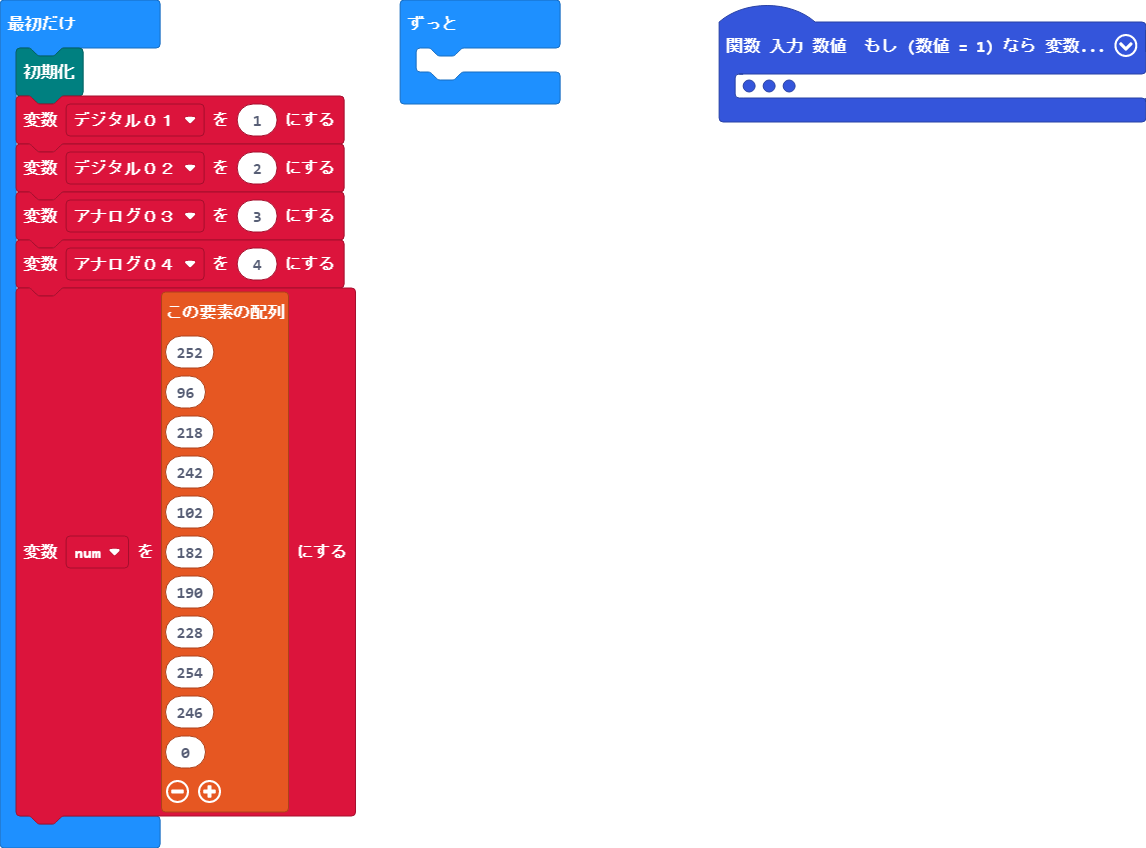
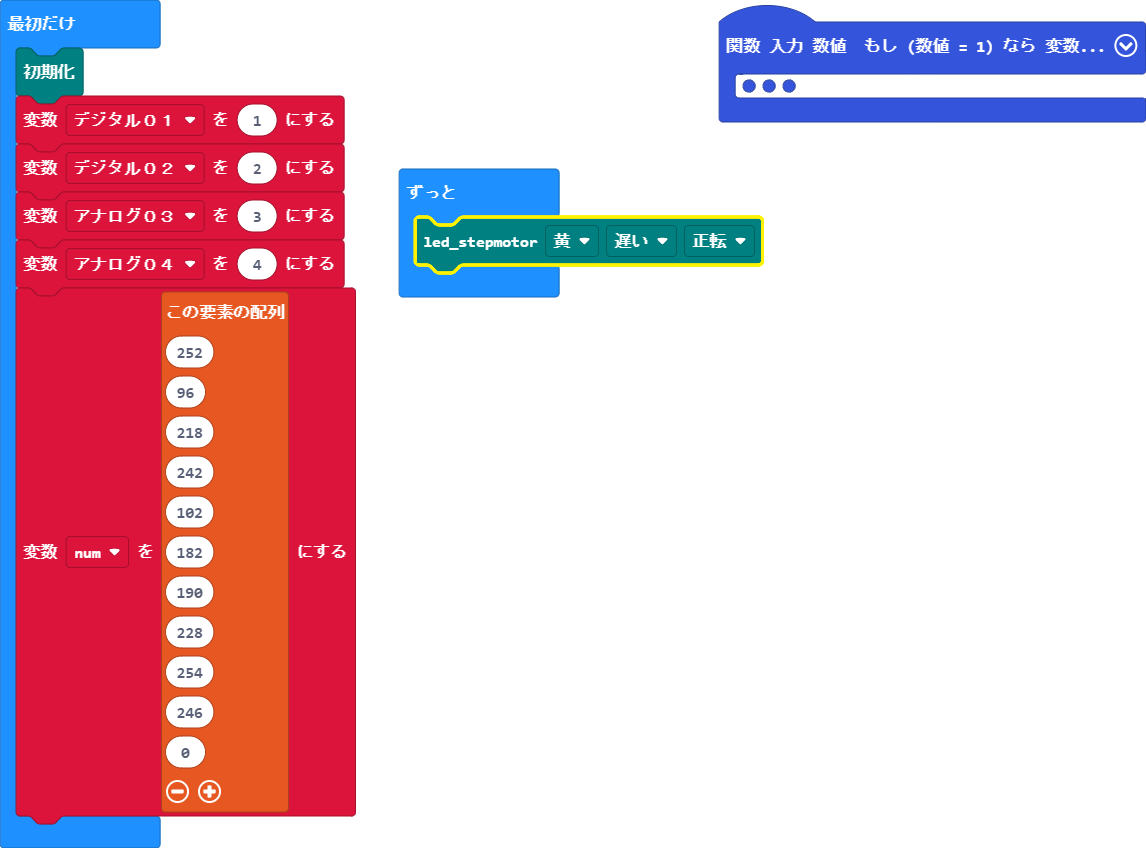
ステッピングモーターとフルカラーLEDを一つにした関数に着手

diff --git a/custom.ts b/custom.ts
@@ -209,7 +209,36 @@ namespace custom {
         pre_FullLED_Value = FullLED_Value
     }
     //% block
-    export function led_stepmotor(s: step_speed, d: step_dir): void {
+    export function led_stepmotor(c: color_type, s: step_speed, d: step_dir): void {
+        //フルカラーＬＥＤ
+        let FullLED_Value
+        switch (c) {
+            case color_type.black:
+                FullLED_Value = 0
+                break;
+            case color_type.red:
+                FullLED_Value = 8
+                break;
+            case color_type.blue:
+                FullLED_Value = 4
+                break;
+            case color_type.green:
+                FullLED_Value = 2
+                break;
+            case color_type.magenta:
+                FullLED_Value = 12
+                break;
+            case color_type.cyan:
+                FullLED_Value = 6
+                break;
+            case color_type.yellow:
+                FullLED_Value = 10
+                break;
+            case color_type.white:
+                FullLED_Value = 14
+                break;
+        }
+        //ステッピングモーター
         let value
         if (d == step_dir.cw) {
             Step = 128
@@ -218,7 +247,8 @@ namespace custom {
         }
         let i = 1
         for (let j = 0; j < 4; j++) {
-            FullStep = pre_FullLED_Value + Step
+//            FullStep = pre_FullLED_Value + Step
+            FullStep = FullLED_Value + Step
 
             pins.digitalWritePin(DigitalPin.P15, 0)
             for (let index = 0; index < 8; index++) {

diff --git a/main.ts b/main.ts
@@ -32,5 +32,5 @@ let num = [
 0
 ]
 basic.forever(function () {
-	
+    custom.led_stepmotor(color_type.yellow, step_speed.low, step_dir.cw)
 })
